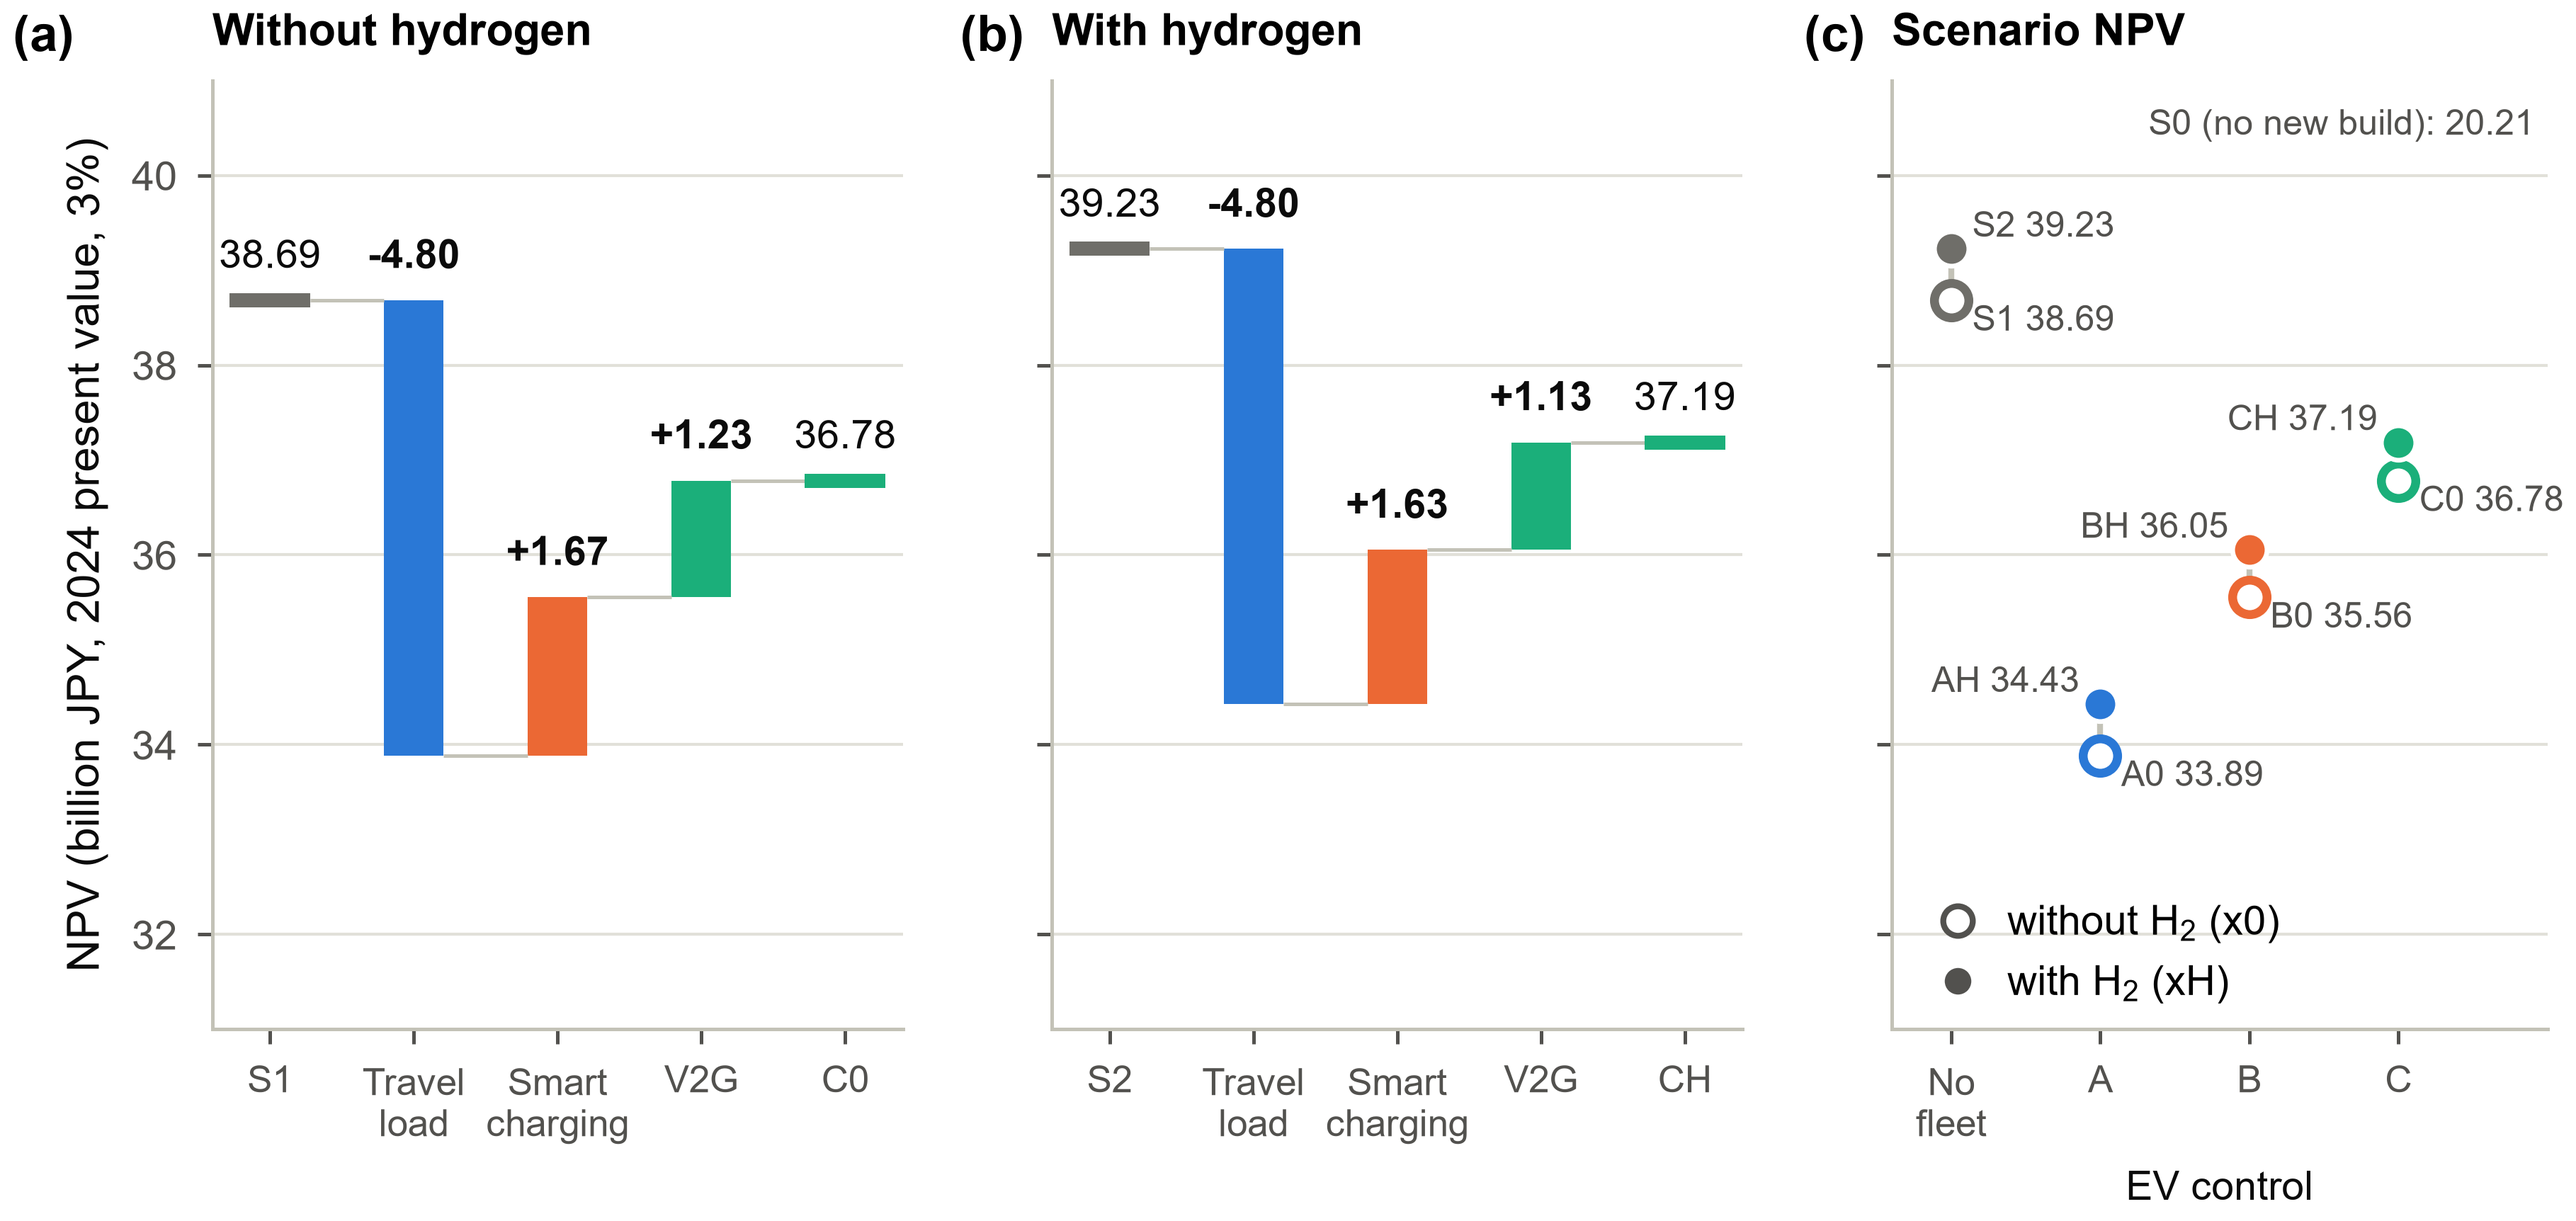
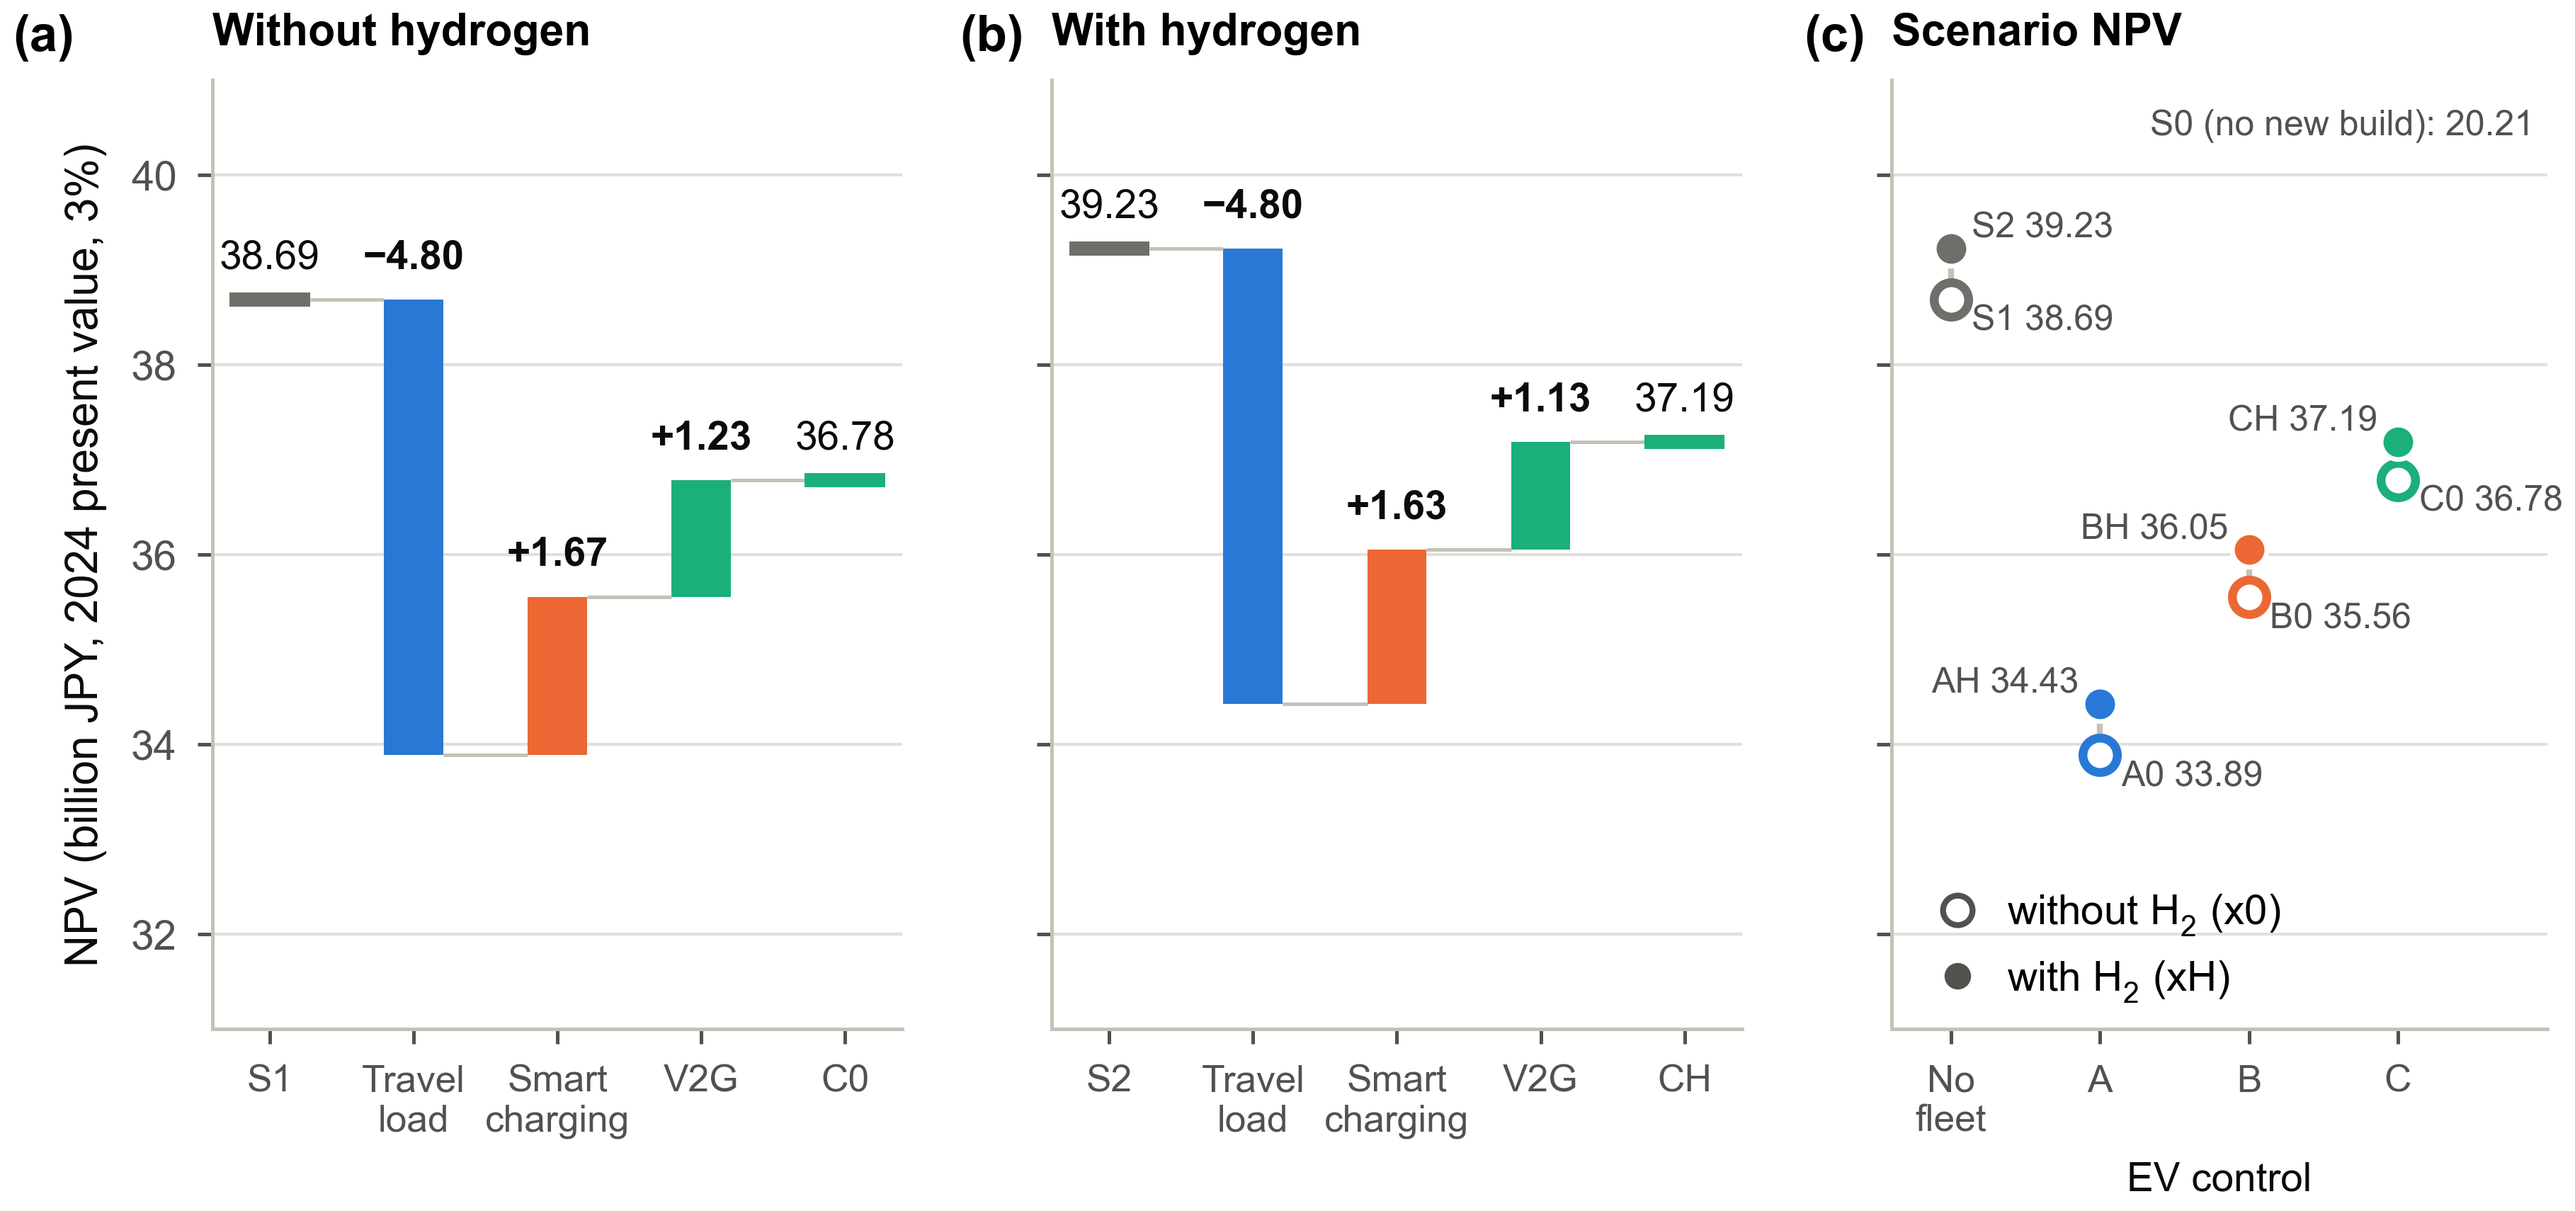
Use minus signs in Figure 3 and drop the thousands comma in Figure 7

diff --git a/pypsa_energies_revision/figures/data/make_fig7_csv.py b/pypsa_energies_revision/figures/data/make_fig7_csv.py
@@ -24,7 +24,7 @@ GROUPS = [
     (EV, 'part100', 'EV participation 100%'),
     (EV, 'chg6', 'Charger 6 kW'),
     (H2, 'minload030', 'Electrolyzer min. load 30%'),
-    (H2, 'startcost', 'Start-up cost 8,000 JPY/MW'),
+    (H2, 'startcost', 'Start-up cost 8000 JPY/MW'),
     (H2, 'startenergy', 'Cold-start energy 0.15 MWh/MW'),
     (H2, 'stack10', 'Stack life 10 yr'),
     (H2, 'stack40', 'Stack life 40 yr'),

diff --git a/pypsa_energies_revision/figures/make_figures.py b/pypsa_energies_revision/figures/make_figures.py
@@ -338,7 +338,7 @@ def fig3():
             ax.text(
                 xs[i + 1],
                 hi + 0.25,
-                f'{dv:+.2f}',
+                f'{dv:+.2f}'.replace('-', '−'),
                 ha='center',
                 va='bottom',
                 fontsize=6.8,
